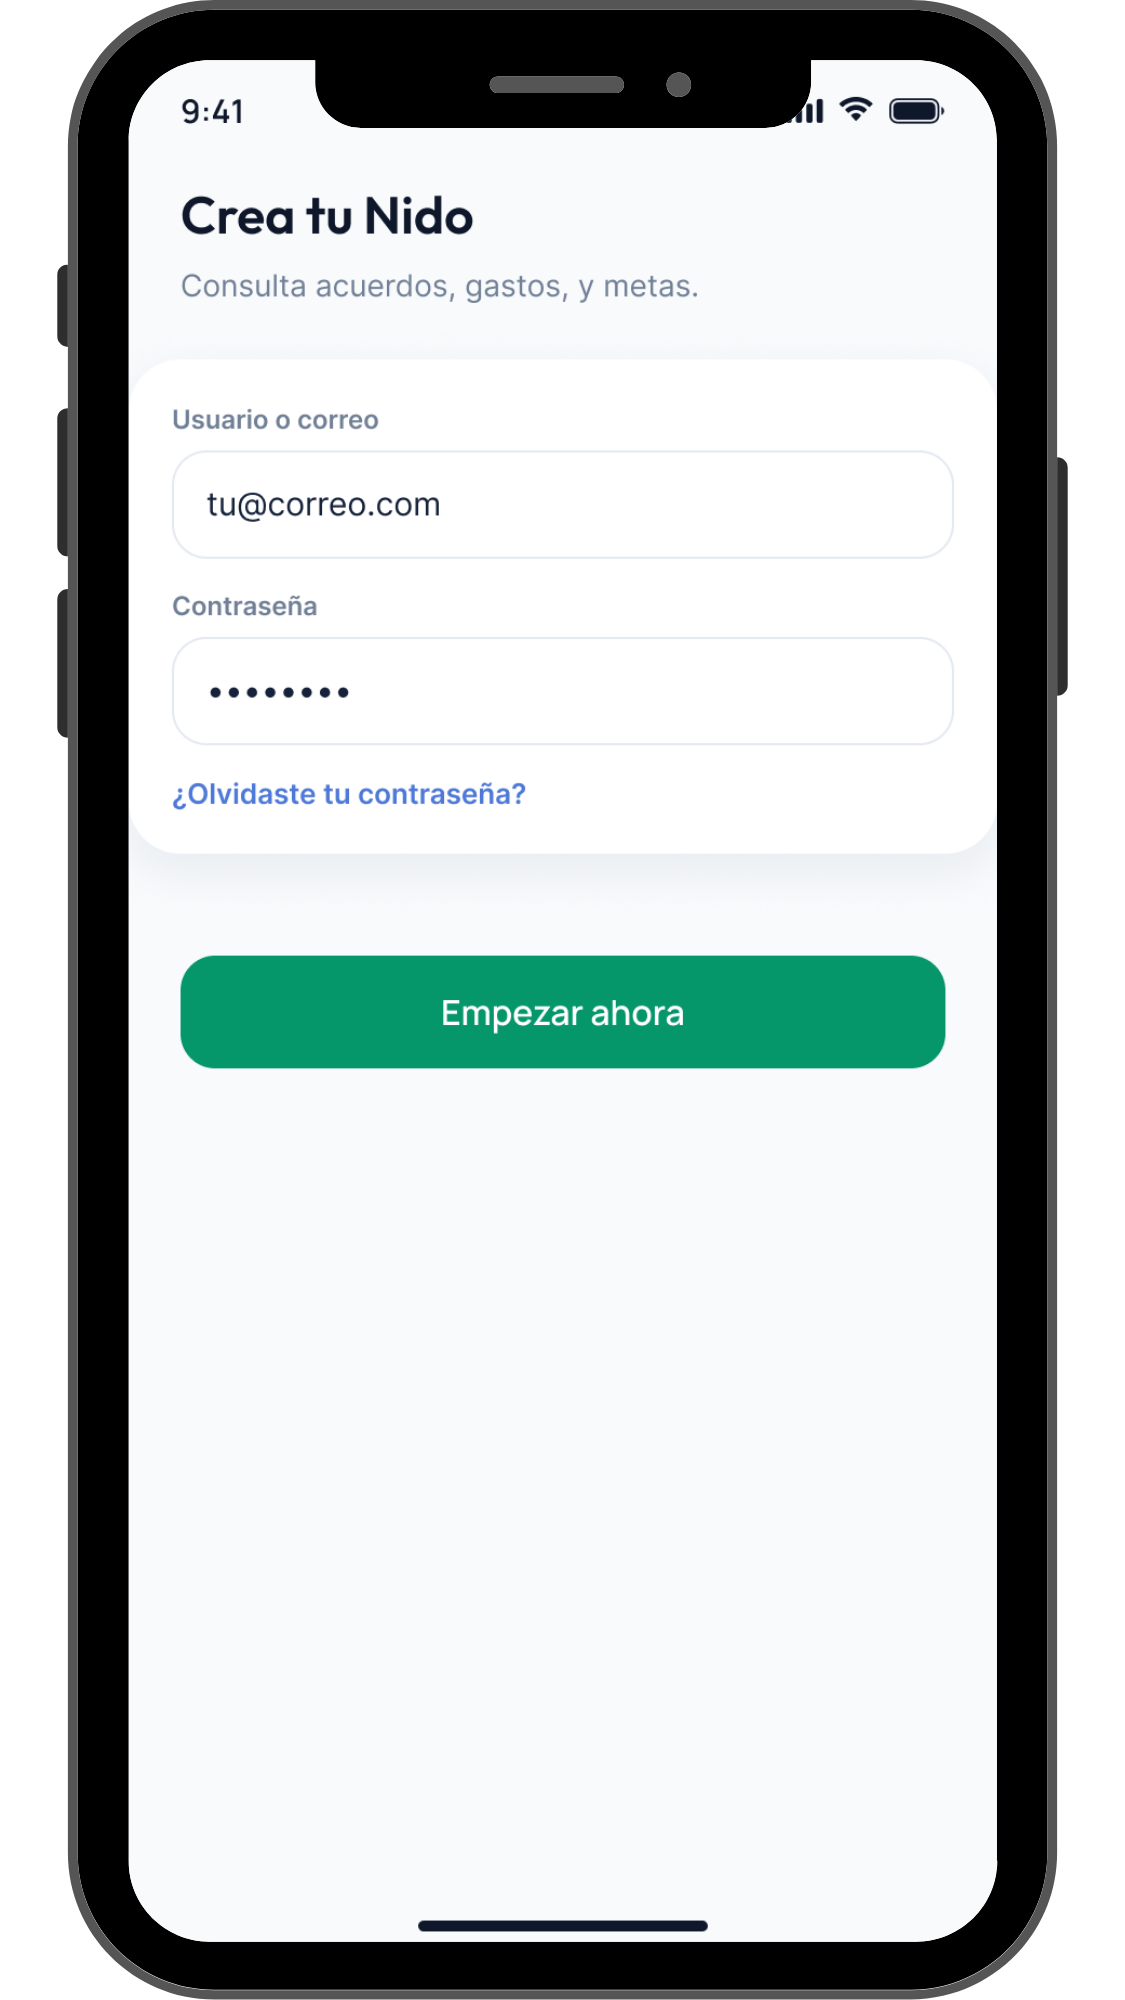
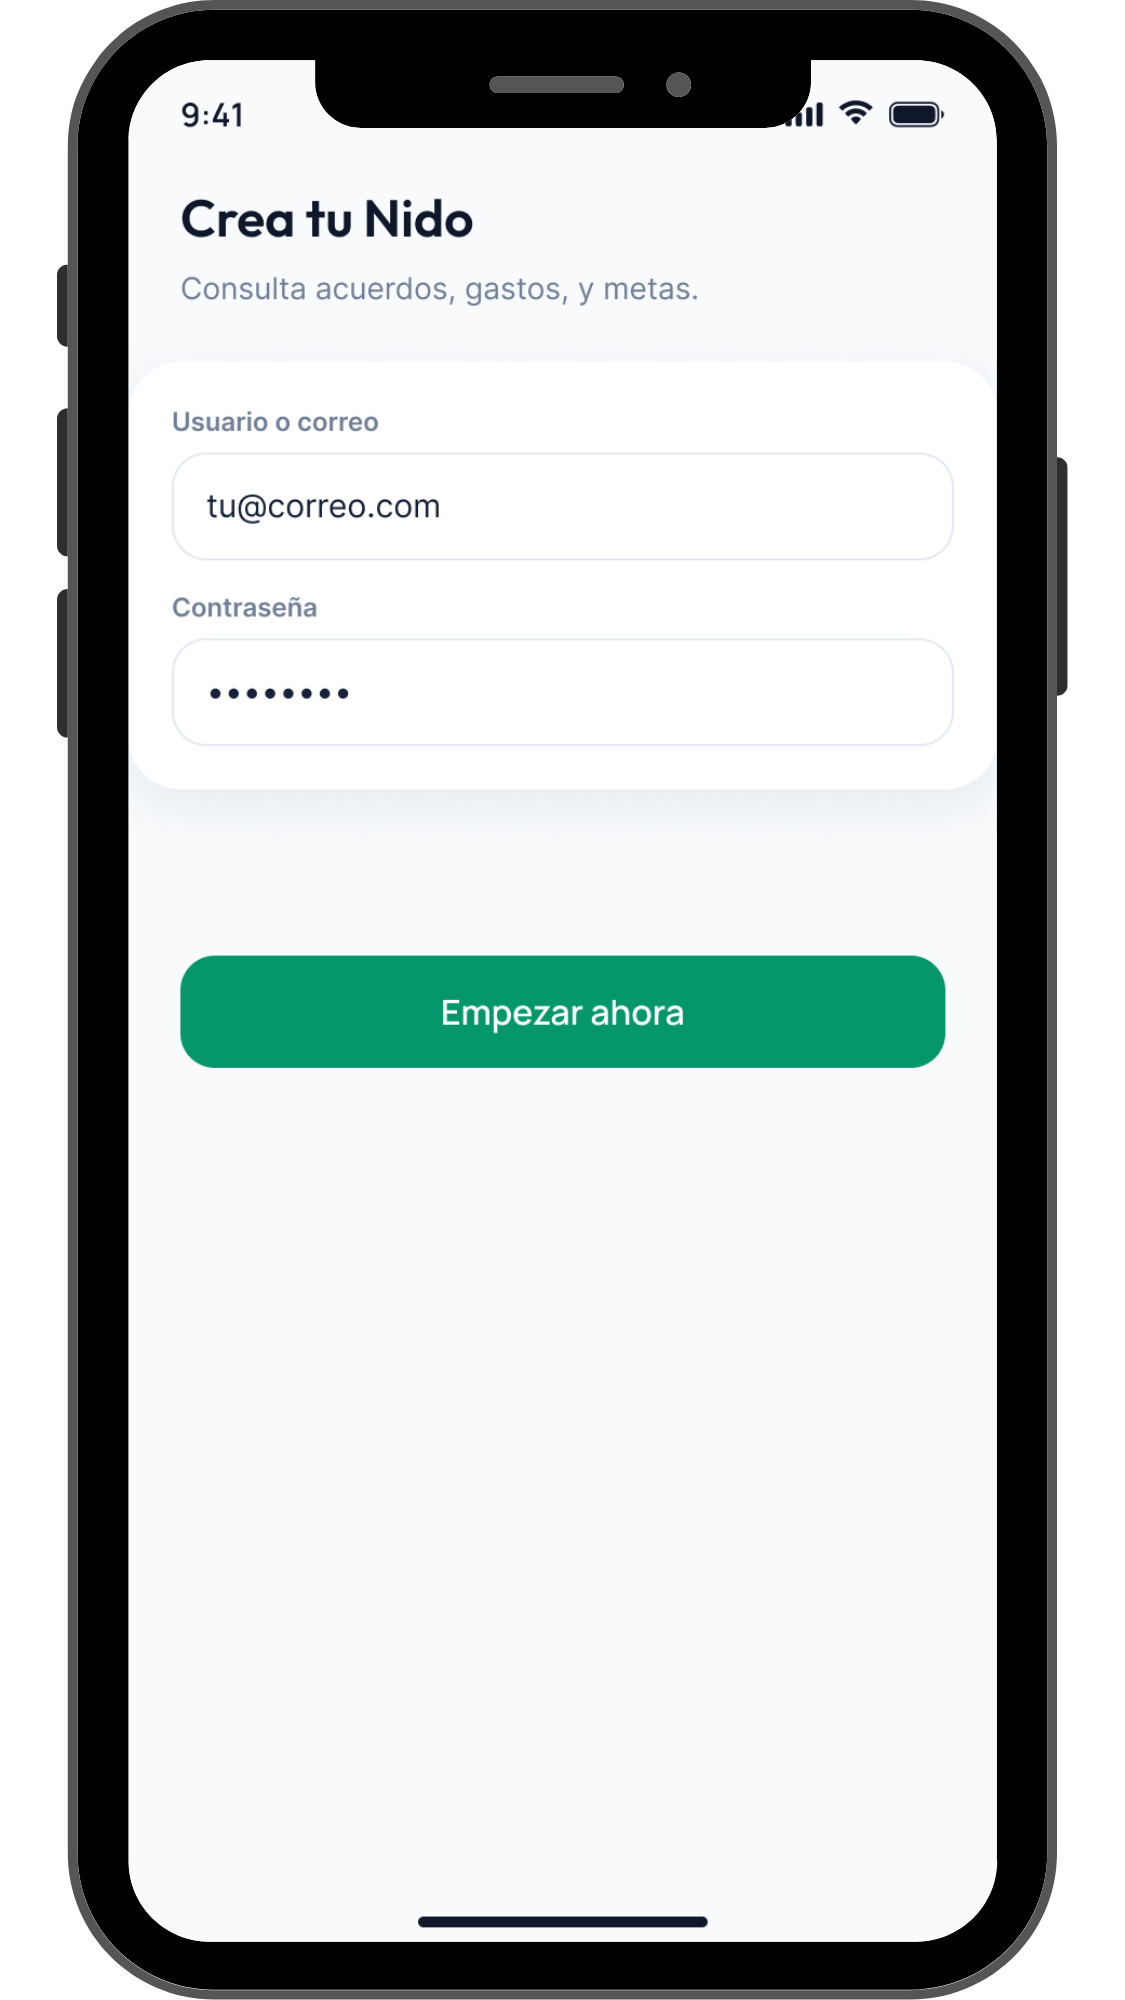
Segunda versión Pagina Blog
Instrucciones incluidas e imagen corregida de prototipo

diff --git a/index.html b/index.html
@@ -157,37 +157,88 @@
           <div class="carrusel-viewport">
             <div class="carrusel-track">
           <div class="carrusel-slide">
-            <img src="prototipos/1.png" alt="Pantalla 01"></div>
+            <img src="prototipos/1.png" alt="Pantalla 01">
+            <p class="descripcion">
+            <strong>Pantalla 1 Bienvenida:</strong> La primera portada muestra el objetivo de la aplicación
+            (independencia financiera y habitacional).
+            <br>
+            “Pulsar comenzar para continuar”
+            </p>
+          </div>
+            
           
           <div class="carrusel-slide">
-            <img src="prototipos/2.png" alt="Pantalla 02"></div>
+            <img src="prototipos/2.png" alt="Pantalla 02"><p class="descripcion">
+            <strong>Pantalla 2 Iniciar sesión rápido:</strong> La pantalla muestra opciones de iniciado de sesion asi como datos que se le piden “Ingresar los datos solicitados e inciar sesion”.
+            </p>
+          </div>
           
           <div class="carrusel-slide">
-            <img src="prototipos/3.png" alt="Pantalla 03"></div>
+            <img src="prototipos/3.png" alt="Pantalla 03"><p class="descripcion">
+            <p class="descripcion">
+            <strong>Pantalla 3 Registro clásico:</strong> En caso de no contar aún con una cuenta, crear una con los datos solicitados.
+            <br>
+            “Completar los datos para crear una cuenta”
+            </p>
+          </div>
           
           <div class="carrusel-slide">
-            <img src="prototipos/4.png" alt="Pantalla 04"></div>
+            <img src="prototipos/4.png" alt="Pantalla 04"><p class="descripcion">
+    <strong>Pantalla 4 Elige tus módulos:</strong> Personalizar la app para no saturarse. Puedes usar una, dos o las tres funciones principales según lo que te interese.
+    <br>
+    “Selecciona los módulos que quieras utilizar”
+</p></div>
           
           <div class="carrusel-slide">
-            <img src="prototipos/5.png" alt="Pantalla 05"></div>
+            <img src="prototipos/5.png" alt="Pantalla 05"><p class="descripcion">
+    <strong>Pantalla 5 Ponle nombre a la casa:</strong> Al no tener y no ser miembro de una vivienda compartida, crear el departamento o la casa para que todos la reconozcan.
+    <br>
+    “Crea tu vivienda y ponle un nombre”
+</p></div>
           
           <div class="carrusel-slide">
-            <img src="prototipos/6.png" alt="Pantalla 06"></div>
+            <img src="prototipos/6.png" alt="Pantalla 06"><p class="descripcion">
+    <strong>Pantalla 6 Cuentas claras y división justa:</strong> El resumen de gastos compartidos da la opción de dividirlos de manera equitativa o mediante porcentajes distintos.
+    <br>
+    “Ve los acuerdos urgentes arriba, como el súper o los servicios.”
+    <br>
+    “Revisa cuánto te toca poner según tu porcentaje”
+</p></div>
           
           <div class="carrusel-slide">
-            <img src="prototipos/7.png" alt="Pantalla 07"></div>
+            <img src="prototipos/7.png" alt="Pantalla 07"><p class="descripcion">
+    <strong>Pantalla 7 Calendario de tareas:</strong> Distribución de tareas durante la semana y quiénes son los encargados de realizar cada una.
+    <br>
+    “Consulta las tareas de la semana y quién debe realizarlas”
+</p></div>
           
           <div class="carrusel-slide">
-            <img src="prototipos/8.png" alt="Pantalla 08"></div>
+            <img src="prototipos/8.png" alt="Pantalla 08"><p class="descripcion">
+    <strong>Pantalla 8 Cambiar de tarea sin drama:</strong> Permite solicitar el intercambio de tareas con los demás en caso de tener algún imprevisto.
+    <br>
+    “Solicita cambiar una tarea con alguien más”
+</p></div>
           
           <div class="carrusel-slide">
-            <img src="prototipos/9.png" alt="Pantalla 09"></div>
+            <img src="prototipos/9.png" alt="Pantalla 09"><p class="descripcion">
+    <strong>Pantalla 9 Dinero de la semana y gastos hormiga:</strong> Proyección de los ingresos y gastos individuales del usuario, acompañada de una gráfica para ayudarlo a monitorear mejor sus finanzas.
+    <br>
+    “Consulta tus ingresos, gastos y gastos hormiga de la semana”
+</p></div>
           
           <div class="carrusel-slide">
-            <img src="prototipos/10.png" alt="Pantalla 10"></div>
+            <img src="prototipos/10.png" alt="Pantalla 10"><p class="descripcion">
+    <strong>Pantalla 10 Metas de ahorro y empujón inteligente:</strong> Visualizar cómo crecen tus ahorros personales, así como las metas que hayas propuesto y cómo las estás completando.
+    <br>
+    “Revisa tu progreso y continúa avanzando hacia tus metas”
+</p></div>
           
           <div class="carrusel-slide">
-            <img src="prototipos/11.png" alt="Pantalla 11"></div>
+            <img src="prototipos/11.png" alt="Pantalla 11"><p class="descripcion">
+    <strong>Pantalla 11 Crear una nueva meta:</strong> Ponerle nombre y cara a lo que quieres comprarte para motivarte a seguir ahorrando.
+    <br>
+    “Crea una meta y comienza a ahorrar”
+</p></div>
           
           <div class="carrusel-slide">
             <img src="prototipos/12.png" alt="Pantalla 12"></div>
@@ -220,58 +271,130 @@
           <div class="carrusel-viewport">
             <div class="carrusel-track">
           <div class="carrusel-slide">
-            <img src="prototipos2/1.png" alt="Pantalla 01"></div>
+            <img src="prototipos2/1.png" alt="Pantalla 01"><p class="descripcion">
+    <strong>Pantalla 1: Bienvenida:</strong> Es la primera pantalla que ve el usuario al abrir la app. Incluye un mensaje informativo sobre el objetivo de la aplicación.
+    <br>
+    “Pulsar comenzar para continuar”
+</p></div>
           
           <div class="carrusel-slide">
-            <img src="prototipos2/2.png" alt="Pantalla 02"></div>
+            <img src="prototipos2/2.png" alt="Pantalla 02"><p class="descripcion">
+    <strong>Pantalla 2: Iniciar sesión:</strong> Permite entrar a una cuenta que ya existe o elegir otras opciones de inicio de sesión.
+    <br>
+    “Ingresa a tu cuenta para continuar”
+</p></div>
 
           <div class="carrusel-slide">
-            <img src="prototipos2/3.png" alt="Pantalla 03"></div>
+            <img src="prototipos2/3.png" alt="Pantalla 03"><p class="descripcion">
+    <strong>Pantalla 3: Crear cuenta (Registro):</strong> Da de alta a un usuario nuevo en la plataforma. Escribe tu usuario o correo, pon una contraseña y presiona “Registrarse” para crear tu perfil.
+    <br>
+    “Completa tus datos para crear tu cuenta”
+</p></div>
 
           <div class="carrusel-slide">
-            <img src="prototipos2/4.png" alt="Pantalla 04"></div>
+            <img src="prototipos2/4.png" alt="Pantalla 04"><p class="descripcion">
+    <strong>Pantalla 4: Empezar en una Colmena:</strong> Te da a elegir tu rol de entrada a un hogar. Elige “Crear una colmena” si vas a armar el grupo de tu casa desde cero, o “Unirte a una colmena” si uno de los habitantes ya la creó y te pasó un código.
+    <br>
+    “Elige cómo quieres entrar a una colmena”
+</p></div>
 
           <div class="carrusel-slide">
-            <img src="prototipos2/5.png" alt="Pantalla 05"></div>
+            <img src="prototipos2/5.png" alt="Pantalla 05"><p class="descripcion">
+    <strong>Pantalla 5: Nombrar el espacio (Paso 1 de 4):</strong> En caso de crear una nueva colmena (hogar), personalizarla para identificarla más fácilmente.
+    <br>
+    “Ponle un nombre a tu colmena”
+</p></div>
 
           <div class="carrusel-slide">
-            <img src="prototipos2/6.png" alt="Pantalla 06"></div>
+            <img src="prototipos2/6.png" alt="Pantalla 06"><p class="descripcion">
+    <strong>Pantalla 6: Sumar a los roomies (Paso 2 de 4):</strong> Registra quiénes viven ahí agregando a otros usuarios.
+    <br>
+    “Agrega a las personas que viven contigo”
+</p></div>
 
           <div class="carrusel-slide">
-            <img src="prototipos2/7.png" alt="Pantalla 07"></div>
+            <img src="prototipos2/7.png" alt="Pantalla 07"><p class="descripcion">
+    <strong>Pantalla 7: Repartir el dinero (Paso 3 de 4):</strong> Asigna cuánto pone cada quien al mes para los gastos comunes. Puede ser de manera equitativa o personalizada.
+    <br>
+    “Define cuánto aporta cada persona”
+</p></div>
 
           <div class="carrusel-slide">
-            <img src="prototipos2/8.png" alt="Pantalla 08"></div>
+            <img src="prototipos2/8.png" alt="Pantalla 08"><p class="descripcion">
+    <strong>Pantalla 8: Home de la Colmena (Panel general):</strong> Revisa el dinero disponible para gastos comunes y consulta cuánto falta para el siguiente pago fuerte, como la renta.
+    <br>
+    “Consulta el estado general de tu colmena”
+</p></div>
 
           <div class="carrusel-slide">
-            <img src="prototipos2/9.png" alt="Pantalla 09"></div>
+            <img src="prototipos2/9.png" alt="Pantalla 09"><p class="descripcion">
+    <strong>Pantalla 9: Nueva meta de recaudación:</strong> Permite crear una meta de dinero para un gasto común de la casa.
+    <br>
+    “Pon el monto que necesitan reunir entre todos y marca en el calendario la fecha límite”
+</p></div>
 
           <div class="carrusel-slide">
-            <img src="prototipos2/10.png" alt="Pantalla 10"></div>
+            <img src="prototipos2/10.png" alt="Pantalla 10"><p class="descripcion">
+    <strong>Pantalla 10: Presupuesto mensual:</strong> Reparte el dinero disponible de la casa en diferentes categorías de gastos.
+    <br>
+    “Organiza el dinero de la casa por categorías”
+</p></div>
 
           <div class="carrusel-slide">
-            <img src="prototipos2/11.png" alt="Pantalla 11"></div>
+            <img src="prototipos2/11.png" alt="Pantalla 11"><p class="descripcion">
+    <strong>Pantalla 11: Calendario de pagos:</strong> Funciona como la agenda visual de lo que entra y sale de dinero durante el mes.
+    <br>
+    “Consulta tus próximos ingresos y pagos”
+</p></div>
 
           <div class="carrusel-slide">
-            <img src="prototipos2/12.png" alt="Pantalla 12"></div>
+            <img src="prototipos2/12.png" alt="Pantalla 12"><p class="descripcion">
+    <strong>Pantalla 12: Menú de Emergencia:</strong> Resuelve un imprevisto urgente en la casa, como una fuga, sin tener que llegar a conflictos.
+    <br>
+    “Registra y resuelve una emergencia del hogar”
+</p></div>
 
           <div class="carrusel-slide">
-            <img src="prototipos2/13.png" alt="Pantalla 13"></div>
+            <img src="prototipos2/13.png" alt="Pantalla 13"><p class="descripcion">
+    <strong>Pantalla 13: Resumen mensual:</strong> Se crea una gráfica que proyecta cuánto dinero entró a la casa, cuánto se ha gastado y cuánto queda libre.
+    <br>
+    “Consulta el resumen financiero de este mes”
+</p></div>
 
           <div class="carrusel-slide">
-            <img src="prototipos2/14.png" alt="Pantalla 14"></div>
+            <img src="prototipos2/14.png" alt="Pantalla 14"><p class="descripcion">
+    <strong>Pantalla 14: Vista del Fondo de Emergencia:</strong> Muestra la alcancía colectiva de protección del hogar.
+    <br>
+    “Consulta cuánto hay disponible para emergencias”
+</p></div>
 
           <div class="carrusel-slide">
-            <img src="prototipos2/15.png" alt="Pantalla 15"></div>
+            <img src="prototipos2/15.png" alt="Pantalla 15"><p class="descripcion">
+    <strong>Pantalla 15: Registrar nueva entrada personal:</strong> Permite registrar dinero e ingresos personales. Selecciona de dónde viene tu dinero (Nómina, Freelance u Otro), teclea el monto recibido y elige cada cuánto te pagan.
+    <br>
+    “Registra tus ingresos personales”
+</p></div>
 
           <div class="carrusel-slide">
-            <img src="prototipos2/16.png" alt="Pantalla 16"></div>
+            <img src="prototipos2/16.png" alt="Pantalla 16"><p class="descripcion">
+    <strong>Pantalla 16: Hacer aportación al Fondo común:</strong> Permite registrar cuánto vas a aportar al fondo común, elegir si es un pago único o recurrente y definir la fecha.
+    <br>
+    “Registra tu aportación al fondo común”
+</p></div>
 
           <div class="carrusel-slide">
-            <img src="prototipos2/17.png" alt="Pantalla 17"></div>
+            <img src="prototipos2/17.png" alt="Pantalla 17"><p class="descripcion">
+    <strong>Pantalla 17: Detalle e historial del Fondo:</strong> Muestra el registro transparente de entradas y salidas de dinero de la reserva.
+    <br>
+    “Consulta el historial de movimientos del fondo”
+</p></div>
 
           <div class="carrusel-slide">
-            <img src="prototipos2/18.png" alt="Pantalla 18"></div>
+            <img src="prototipos2/18.png" alt="Pantalla 18"><p class="descripcion">
+    <strong>Pantalla 18: Dashboard personal (Mi dinero):</strong> Tu espacio privado para ver y administrar tus finanzas individuales.
+    <br>
+    “Consulta y administra tus finanzas personales”
+</p></div>
             </div>
           </div>
           

diff --git a/style.css b/style.css
@@ -635,3 +635,6 @@ a {
   background-color: #000;
   display: block;
 }
+.descripcion {
+    max-width: 300px;
+}
